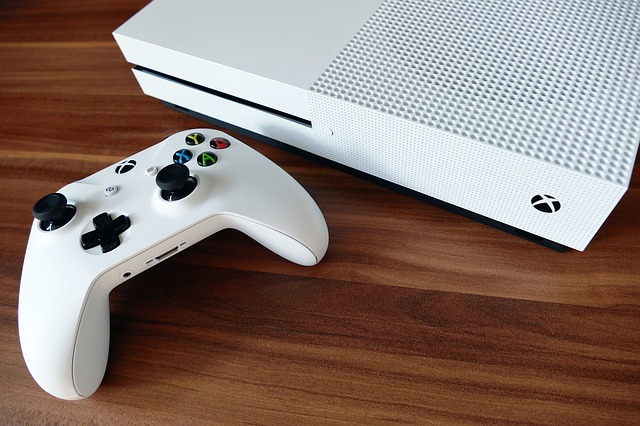
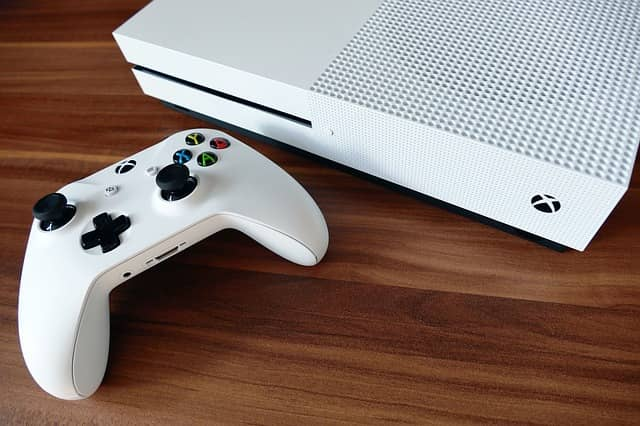
imrovements - overwatch form styles & images compression

diff --git a/src/styled-components/elements/homePage/homePage.js b/src/styled-components/elements/homePage/homePage.js
@@ -1,6 +1,6 @@
 import styled from "styled-components";
-import {an__navigationItem} from "../../general/animations";
-import {device} from "../../general/breakpoints";
+import { an__navigationItem } from "../../general/animations";
+import { device } from "../../general/breakpoints";
 
 export const NavigationList = styled.ul`
   display: flex;
@@ -24,9 +24,9 @@ export const NavigationItem = styled.li`
   justify-content: center;
   flex-grow: 1;
   width: 100%;
-  height: 180px;
+  height: 162px;
   margin: 5px;
-  border-radius: 33px;
+  border-radius: 17px;
   overflow: hidden;
   animation: ${props => props.animation ? an__navigationItem : ""} 0.6s forwards;
 
@@ -61,7 +61,7 @@ export const NavigationItem = styled.li`
     flex-shrink: 1;
   }
 `
-export const NavigationItemTitle = styled.h2`
+export const NavigationItemTitle = styled.strong`
   position: absolute;
   z-index: 2;
   height: 100%;
@@ -161,7 +161,7 @@ export const NavigationImg = styled.img`
   width: 100%;
   height: 100%;
   object-fit: cover;
-
+  
   ///////////
   // media //
   ///////////
@@ -179,13 +179,14 @@ export const ColorForm = styled.form`
   display: flex;
   justify-content: space-between;
   align-items: center;
-  margin-top: 21px;
+  margin-top: 13px;
 
   ///////////
   // media //
   //////////
   @media ${device.tablet} {
-    margin-top: 23px;
+    margin-top: 17px;
+    justify-content: space-evenly;
   }
 `
 
@@ -221,8 +222,17 @@ export const ColorFormCheckbox = styled.div`
     width: 100%;
     height: 100%;
     background: ${props => props.color};
-    border-radius: ${props => props.theme.border_radius.l};
+    border-radius: 10px;
     font-size: 0;
+    @media ${device.mobileM} {
+      border-radius: 13px;
+    }
+    @media ${device.mobileL} {
+      border-radius: 16px;
+    }
+    @media ${device.tablet} {
+      border-radius: 20px;
+    }
   }
 
 
@@ -236,21 +246,20 @@ export const ColorFormCheckbox = styled.div`
       font-size: 66px;
     }
   }
-
   @media ${device.tablet} {
-    height: 142px;
-    width: 142px;
+    height: 96px;
+    width: 96px;
     input:checked ~ label i {
-      font-size: 128px;
+      font-size: 75px;
     }
   }
 
   @media ${device.laptop} {
-    height: 85px;
+    height: 52px;
     width: 245px;
 
     input:checked ~ label i {
-      font-size: 80px;
+      font-size: 53px;
     }
   }
   @media ${device.laptopL} {

diff --git a/src/styled-components/elements/user-form/user-form.js b/src/styled-components/elements/user-form/user-form.js
@@ -1,6 +1,6 @@
 import styled from "styled-components";
-import {an__formRecovery} from "../../general/animations";
-import {device} from "../../general/breakpoints";
+import { an__formRecovery } from "../../general/animations";
+import { device } from "../../general/breakpoints";
 
 export const Form = styled.form`
   width: 100%;
@@ -17,8 +17,8 @@ export const Form = styled.form`
   }
 
   button {
-    width: 286px;
-    height: 50px;
+    width: 276px;
+    height: 45px;
     border: none;
     border-radius: ${props => props.theme.border_radius.l};
     background: ${props => props.theme.color.main};
@@ -66,8 +66,8 @@ export const FormElement = styled.div`
       height: 78px;
     }
     @media ${device.laptop} {
-      width: 85px;
-      height: 85px;
+      width: 72px; 
+      height: 72px;
     }
   }
 
@@ -97,6 +97,7 @@ export const FormElement = styled.div`
     }
     @media ${device.laptop} {
       width: 600px;
+      height: 43px;
     }
   }
 

diff --git a/src/styled-components/general/breakpoints.js b/src/styled-components/general/breakpoints.js
@@ -4,6 +4,7 @@ export const size = {
     mobileL: '425px',
     tablet: '768px',
     laptop: '1024px',
+    laptopM: `1280px`,
     laptopL: '1440px'
 };
 export const device = {
@@ -12,5 +13,6 @@ export const device = {
     mobileL: `(min-width: ${size.mobileL})`,
     tablet: `(min-width: ${size.tablet})`,
     laptop: `(min-width: ${size.laptop})`,
+    laptopM: `(min-width: ${size.laptopM})`,
     laptopL: `(min-width: ${size.laptopL})`
 };

diff --git a/README.md b/README.md
@@ -7,6 +7,7 @@ https://ecstatic-shockley-450960.netlify.app/
 ## Technology
 
 * Create React App
+* React - function components
 * React Redux
 * Styled Components
 * React Router
